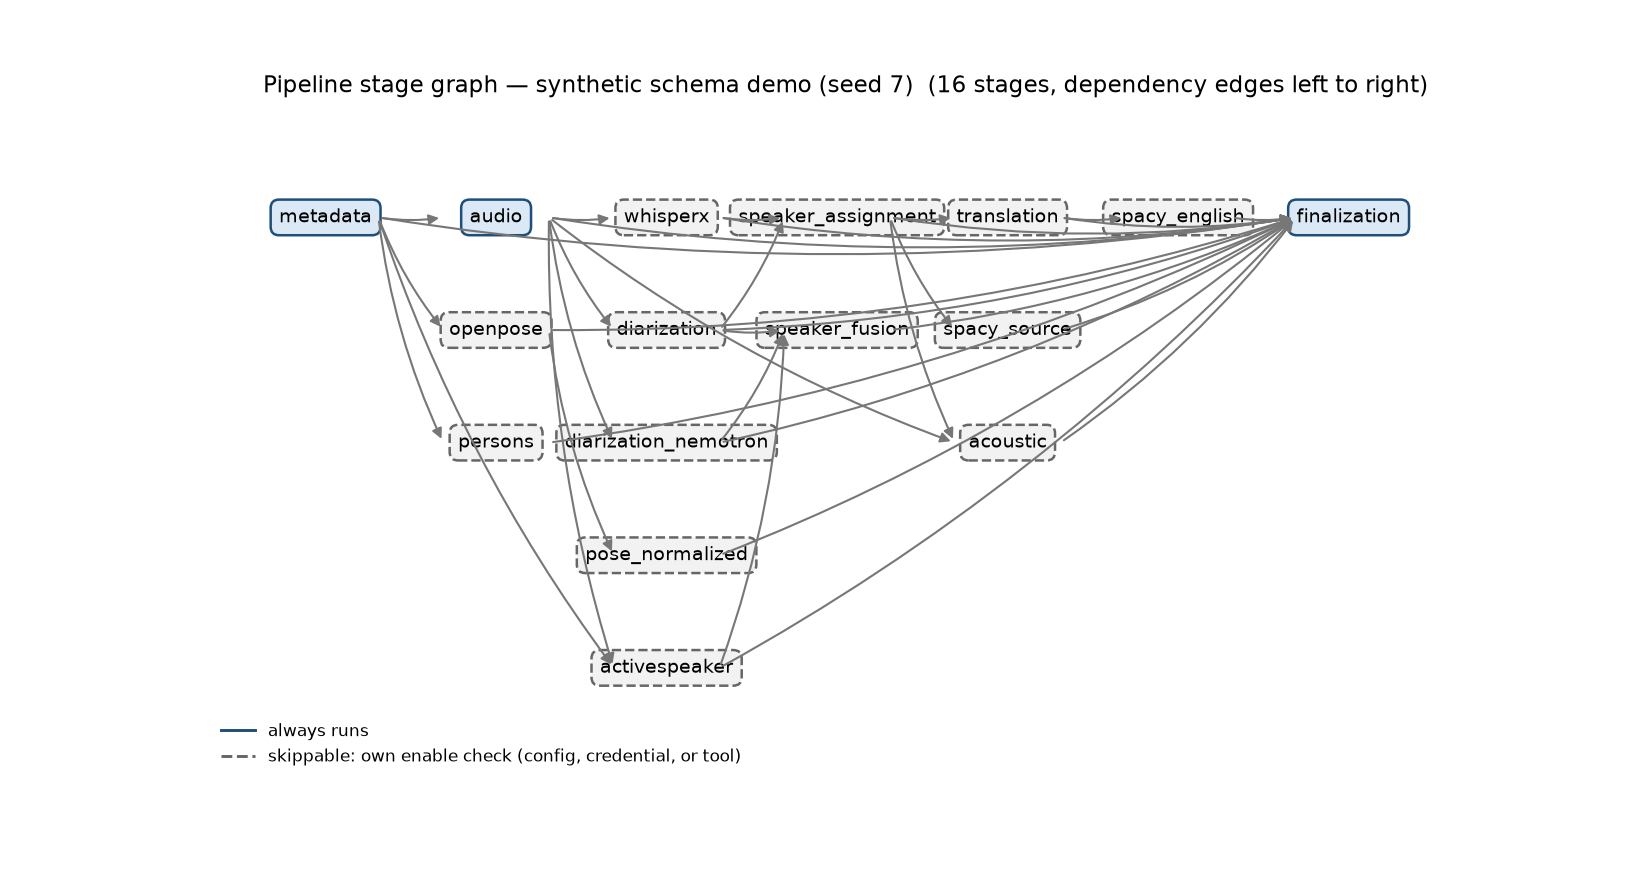
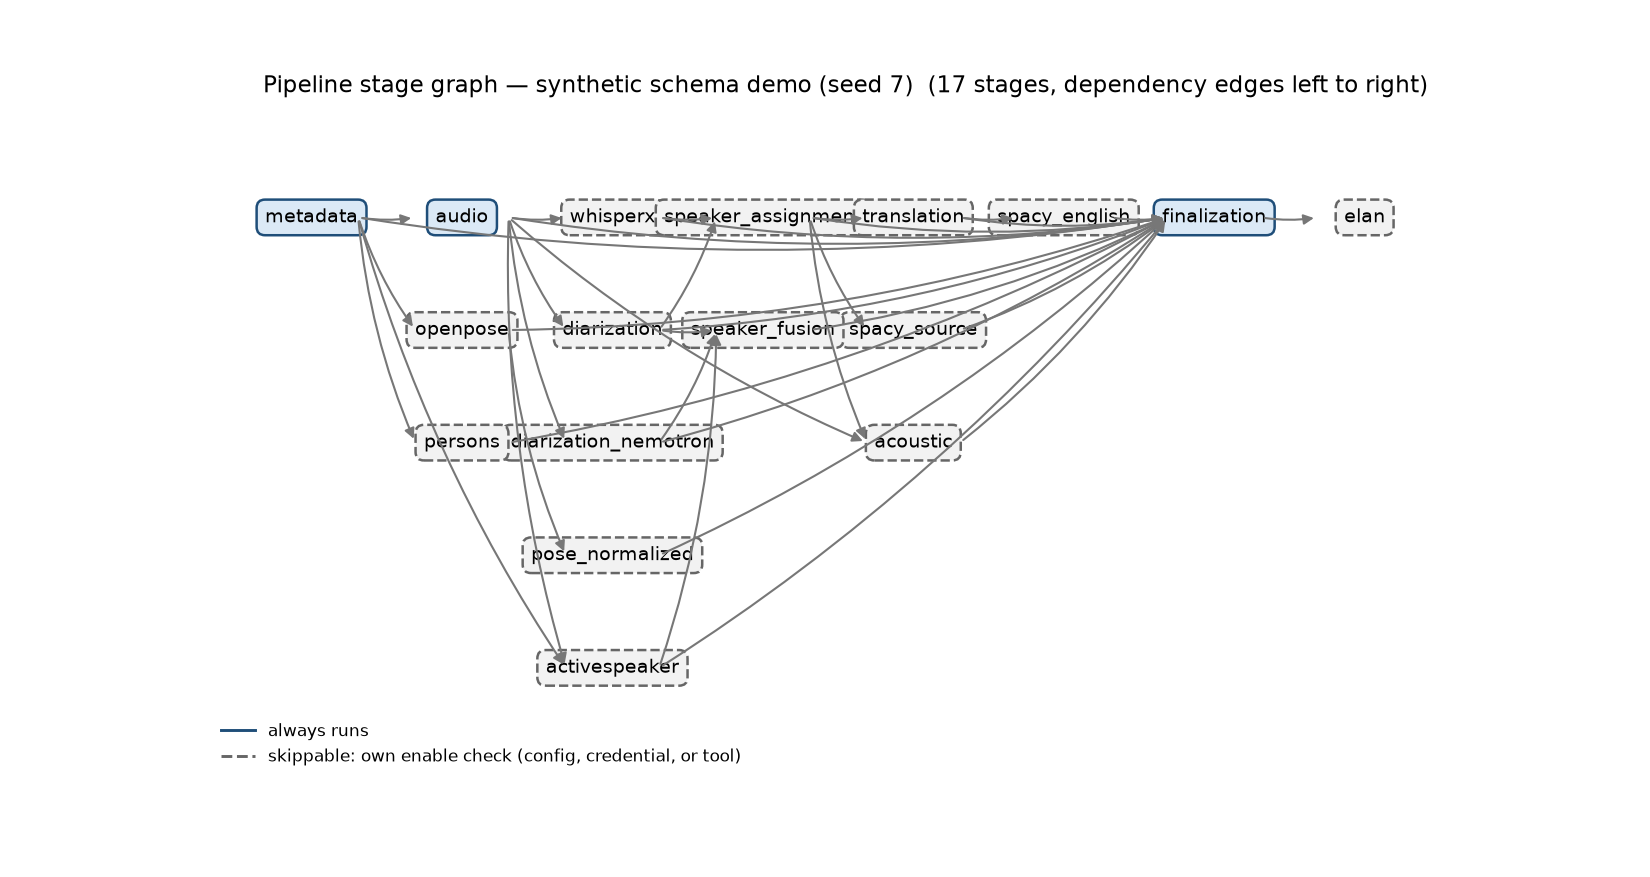
docs(elan): what the export is for, measured on all seven datasets (odd/tasks/elan-export.md)
T22 link 3/3: the consumer-facing section, the regenerated stage-graph figure,
and the ODD feature document (decisions, the writer's measured deviation, the
parent's closure measurements).

The section earns its place by naming what a reader cannot infer from the file:
the twelve tiers and where each comes from, the half-open reading a collapsed
block's end carries (start ≤ t < end + one median step — stated because it is a
choice), the two media URLs, the empty-MIME rule, and the failure rule (no words
and no segments fails the stage; anything else skips its tier with one logged
line). Annotation counts are measured per dataset, not illustrative: KABC 49,
CNN 36, La-1 86, person_demo 94, both pipeline demos 59, pipeline_silent 1.

The walked table's elan row carries measured per-tier counts for pipeline_demo
(words 23, asd_speaking 1 block of `no face`, pose_presence 0): the export
repeats the tables' emptiness rather than inventing a subject the clip lacks.

person_demo's transcript tiers are empty and the table says why — its words
table has 0 rows while whisperx completed — because an unexplained empty tier is
the ambiguity this feature set out to remove.

stage_graph.png regenerated with the documented command (--synthetic --seed 7):
the renderer draws from STAGE_ORDER and STAGE_CLASSES, so a new stage moves the
figure; the other three figures reproduced byte-identically, which is the check
that only the graph moved. Honest limit: this model cannot see images, so the
[…]

Changed region(s): [[0.1545, 0.2155, 0.8655, 0.7697], [0.6491, 0.4618, 0.68, 0.4926]]

diff --git a/odd/tasks/elan-export.md b/odd/tasks/elan-export.md
@@ -1,0 +1,206 @@
+# ELAN export (T22): one `.eaf` per video, one tier per module
+
+Operator request (2026-10-01): a new last pipeline stage that reads the outputs every
+worker already produced and writes one ELAN `.eaf` per video, with the modules' outputs
+as annotation rows, the video linked so ELAN shows it.
+
+Operator decisions (asked, answered):
+
+| Question | Answer |
+|---|---|
+| Where does it live | **Last stage of the pipeline**, reading the real outputs of every worker |
+| Annotation text | label + key details (`SPEAKER_00 (nemotron)`, `face track 0 · 74/77 act`) |
+| Per-frame signals (ASD, pose) | **collapse contiguous runs into blocks** |
+| Row layout | **flat, one tier per module** (no hierarchy, no per-speaker tiers) |
+
+Parent decisions (announced, reversible — alternatives noted):
+
+- Library: `pympi-ling` (`pympi.Elan.Eaf`), the standard Python EAF writer. Media through
+  `add_linked_file` with BOTH an absolute `file://` URL and a portable
+  `RELATIVE_MEDIA_URL` (`../../../input_videos/<name>`), so the `.eaf` opens the video in
+  place and survives a folder move.
+- Artifact name is fixed: `elan/annotations.eaf` inside each dataset dir (the registry
+  maps key→fixed path; one dataset dir per video, so one `.eaf` per video). Alternative
+  `<video_id>.eaf` rejected: `VideoPaths.artifact` cannot express per-video names.
+- Tier set (12, flat): `words`, `segments_src`, `gloss_en`, `turns_pyannote`,
+  `turns_nemotron`, `fusion_pyannote`, `fusion_nemotron`, `asd_speaking` (blocks),
+  `face_tracks`, `person_tracks`, `pose_presence` (blocks), `voiced_blocks`.
+- Times: seconds → integer milliseconds; a zero-width interval gets +1 ms (ELAN requires
+  start < end; documented in code).
+- Stage order: after `finalization`; `finalization`'s dependency tuple must exclude `elan`
+  (else the manifest's stage that declares `elan` can never declare it produced).
+- Reuse: derived pure-Python stage → mixes `python_source_digest` per §31.
+- `elan.enabled` defaults **true**: it is cheap pure Python over files already on disk,
+  and unlike `persons` it costs no GPU and no download. Reversible by config.
+- Adding a manifest artifact moves `MANIFEST_ARTIFACTS` 43→44 and the corpus 42→43 once
+  the stage has run everywhere; the README corpus prose and its guard get updated in the
+  same work unit (this is exactly the drift §40 just instrumented).
+
+## Tasks
+
+- [x] E1 `elan` module: tables → ELD structure (tiers, blocks collapse, ms conversion), unit-tested against real corpus tables
+- [x] E2 `ElanConfig` (enabled, default true) + wiring (`stage_configs`, example yaml) + artifact `elan_annotations` + `ensure_dirs`
+- [x] E3 `ElanStage` last in `STAGE_ORDER`; `finalization` deps exclude it; media descriptor with relpath + mimetype by suffix
+- [x] E4 run on the corpus, open/validate one `.eaf` (XML sanity + pympi round-trip), check ELAN media URL correctness
+- [x] E5 README section + corpus-count prose/guard updates + ratchet; suite green with named mutations
+- [ ] E6 ODD receipt + native review per commit + push
+
+## Implementation receipt (writer pass, 2026-09-30)
+
+E1–E3 are implemented and verified; E4 is verified read-only (the corpus was never written to);
+E5 and E6 are **not** started because every file they touch is outside this task's edit surface.
+
+### Deviation from the design spec (measured, not preferred)
+
+Tier 11 (`pose_presence`) was specified to group `pose/body.parquet` by **`source_timestamp`**.
+That column does not exist in that table. `BODY_SCHEMA` names its PTS-seconds column
+`timestamp`, and `OpenPoseStage.frame_timings` fills it from
+`source/frame_index.parquet`'s `pts_seconds` — so it *is* source presentation time, under the
+other name. `source_timestamp` exists only in `ACTIVE_SPEAKER_FRAMES_SCHEMA`, where it is needed
+alongside a second `timestamp` column holding TalkNet's synthetic 25 FPS axis.
+
+Grouped by `timestamp` instead. The design's actual point — group by seconds and never by
+`frame_number`, because the pose grid is the source's PTS list while ASD's `frame_number` is its
+resampled 25 FPS axis — is preserved, and stated in the docstring. Building the tier as written
+would have raised `ArrowInvalid: No match for FieldRef.Name(source_timestamp)` and skipped
+`pose_presence` on **every** video, silently, because per-tier read failures are logged and
+skipped by design. Caught by a corpus-backed assertion, not by reading.
+
+### Two findings the design did not anticipate (both cost a fix in code)
+
+1. **`pympi.Elan.to_eaf` renames an occupied destination to `<name>.bak` before writing.**
+   Handing it a path `NamedTemporaryFile` had already created left a zero-byte
+   `.annotations.eaf.*.bak` sibling in every dataset's `elan/` directory, which the artifact
+   registry would then have counted inside the `elan_annotations` slot. The writer now reserves
+   the temp name, releases it, and lets the library find the destination free. Found by
+   `test_no_temporary_file_is_left_behind`, which was written before the behaviour was known.
+2. **pympi emits a `default` `TIER` element in every document.** `validate`'s tier count and its
+   "declares no tier" guard both have to exclude it, or the count is one high and the guard is
+   unreachable (a document with no real tier still contains `default`).
+
+Also: `seconds_to_ms` rounds with `floor(x + 0.5)` rather than `round`, because Python's `round`
+is banker's rounding and an exact half-millisecond tie (0.0005 s) would fall to 0.
+
+### Pipeline logic that assumed `finalization` is last — and what it needs
+
+Two places in files outside this task's edit surface, both found by the suite rather than by
+reading, both still outstanding:
+
+1. `orchestrator.py` — `STAGE_CLASSES` is built from an explicit class tuple, so `elan` is
+   missing from it and `build_stages()` raises `KeyError: 'elan'`. **Every CLI command and all 21
+   e2e CLI tests die on it.** Needs: import `ElanStage` and add it to that tuple.
+2. `cli.py` — `run()` and `process_video()` default `--to-stage` to the literal `"finalization"`,
+   so `multimodal-pipeline run -c config/config.local.yaml` selects a stage range that **excludes
+   `elan`**: the feature would be dead on the pipeline's main entry point while every unit test
+   stayed green. Needs the default changed to `"elan"` (or `None`). The same file's `status`
+   command passes `to_stage=None` and is unaffected.
+
+`orchestrator.enabled_stage_names` also needs `"elan": config.elan.enabled`; without it a
+default-true stage is reported enabled by `status` while `Stage.enabled` will report a skip
+reason (the mapping's default is `True`, and `pose_normalized`/`speaker_fusion` are listed for
+exactly this reason).
+
+The DAG trap the design named was handled in surface: `finalization`'s dependency tuple now
+excludes both `finalization` and `elan`, and `dependency_chain`/`dependants_of` were checked for
+termination (`dependants_of("finalization") == ["elan"]`, `dependency_chain("elan")` is all 16
+predecessors in canonical order).
+
+### Mutation discipline (observed, then restored)
+
+- **(a) `+1 ms` zero-width end removed** → died: `test_a_zero_width_end_widens_by_one_millisecond`,
+  `test_a_null_timestamp_lands_at_zero`, and — with the pair-level repair in `interval_ms` also
+  removed — 24 more, including `test_a_known_word_lands_on_the_expected_millisecond_pair`,
+  `test_face_to_no_face_to_face_collapses_into_three_blocks`,
+  `test_presence_blocks_are_split_by_a_low_confidence_frame` and
+  `test_no_interval_ever_comes_out_negative_or_inverted`. The two-layer guard is why the isolated
+  mutation kills only the two unit-level tests: the pair check catches it downstream.
+- **(b) `RELATIVE_MEDIA_URL` dropped (absolute URL only)** → died:
+  `test_the_media_descriptor_carries_both_urls_and_they_both_resolve`,
+  `test_the_corpus_export_has_every_tier_and_real_words`,
+  `test_validate_reports_media_that_is_not_reachable` and 10 more that cannot write the file.
+
+Both restored; the suite is back to its pre-mutation state.
+
+### Out-of-surface failures this pass leaves for the parent (11)
+
+| Test | Why |
+|---|---|
+| `test_elan.py::TestOrchestratorRegistration` (2) | written as the specification for the `orchestrator.py` edits above |
+| `test_persons_config.py::...stage_is_in_the_order_and_the_class_map` | `set(STAGE_CLASSES) == set(STAGE_ORDER)` |
+| `test_pose_normalized_schema.py::...registered_in_the_orchestrator_classes` | same invariant |
+| `test_speaker_fusion.py::...stage_is_constructible_by_the_orchestrator` | `KeyError: 'elan'` |
+| `test_speaker_fusion.py::...registered_in_order_after_its_three_inputs` | asserts `STAGE_ORDER[-1] == "finalization"` — true on base, false by design now |
+| `test_readme_claims.py::...artifact_count_it_quotes_is_the_manifest_key_count` | pins `len(MANIFEST_ARTIFACTS) == 43`; registry is 44 |
+| `test_readme_claims.py::...corpus_counts_the_prose_states_match_the_manifests_on_disk` | README prose says the registry declares 43 |
+| `test_readme_claims.py::...example_never_walks_an_absent_artifact_as_a_file_that_exists` | asserts no dataset lists `elan_annotations`; the corpus has not run the stage yet |
+| `test_readme_claims.py::TestDocumentedTestCounts::...real_suite_sizes` | README ratchet: 98 new unit tests collected |
+
+`tests/e2e`: 21 failed / 20 passed against a **green baseline** (the same 42 pass on `HEAD` in a
+read-only worktree copy), all 21 from the `KeyError: 'elan'` above.
+
+## Parent closure (E4–E5, 2026-09-30)
+
+The parent verified the writer's work independently rather than trusting the report, then
+closed the gaps it named. Measurements, not restatements:
+
+**The out-of-surface gaps were real.** Every one of the 11 failing tests reproduced exactly as
+listed before any parent edit. Parent edits, all announced here because they are outside the
+delegation surfaces:
+
+- `orchestrator.py`: `ElanStage` imported and added to the `STAGE_CLASSES` tuple;
+  `enabled_stage_names` gained `"elan": config.elan.enabled`. The writer's reading of both
+  gaps was correct — with only those two edits, the 5 class-map/`KeyError` failures died.
+- `cli.py`: `--to-stage` default changed from the literal `"finalization"` to `None` on both
+  `run` and `process_video` (`None` = no upper bound, so the default *follows* `STAGE_ORDER`
+  instead of contradicting it; `resume` already passed `None`). Without this the feature is
+  dead on the main entry point — the "feature muerta" risk the writer flagged is exactly
+  right and this is the fourth time this repository has found a default that hard-codes a
+  stage name.
+- `tests/unit/test_speaker_fusion.py`: the `STAGE_ORDER[-1] == "finalization"` pin became
+  `STAGE_ORDER[-2:] == ("finalization", "elan")` plus an inequality — a positional pin on
+  "the last stage" was always a claim about the length of a list that grows.
+- `tests/unit/test_readme_claims.py`: registry pin 43→44 (the constant moving with the
+  registry *is* the guard), prose anchors re-pointed at the new sentences.
+
+**E4, measured on the corpus (operator-authorized writes to `data/processed/`).** All seven
+`elan/annotations.eaf` written; every one parses as XML, round-trips through pympi, exports
+**12/12 tiers**, and both media URLs resolve from disk (absolute `file://` and
+`../../input_videos/<name>`). `validate --json`: `ok: true`, 7/7, zero problems, all
+manifests declare 43 artifacts. A third consecutive `--only-stage elan` run re-used (0–1 s)
+and `status --plan` reports `valid previous result` for all seven — the 0 s of run two was
+the `elan.py` source edit between runs invalidating by design (§31), and the fingerprint
+claim was then *tested*: appending one comment line to `elan.py` moved all seven to
+`configuration changed`, removing it moved them back. The figure `docs/assets/stage_graph.png`
+was regenerated (`--synthetic --seed 7`, byte-identical reproduction verified for the other
+three figures). Honest limit: the current model cannot see images, so the new PNG was
+verified by the renderer's data path (`stage list len: 17` with `elan` proven in the same
+process) and by its bytes changing — not by looking at it.
+
+**One real defect the writer shipped, found by the parent reading corpus output.**
+`mimetype_for` mapped every unknown suffix to `video/mp4`. The corpus's `person_demo.avi` is
+the test case: its real container (ffprobe, and the pipeline's own `source/metadata.json`)
+is QuickTime — `video/mp4` in that descriptor would be a false statement inside every
+artifact. The fix declares nothing when the suffix does not say (`UNKNOWN_MIME_TYPE = ""`):
+`MIME_TYPE` is an optional `MEDIA_DESCRIPTOR` attribute, an empty one serialises and
+round-trips (measured with pympi 1.7), and ELAN plays off the extension either way.
+Correct-but-absent beats wrong-and-present. The rewritten test died under restoring the old
+catch-all. (Process note: the first mutation attempt silently no-op'd because bare `python`
+does not exist on this machine — a `python` invocation is not a command here; `uv run python`
+re-ran it properly.)
+
+**E5.** New README section “ELAN export: `elan`” (tier table, measured annotation counts for
+all seven datasets, the two-URL rule, the empty-MIME rule, the transcript-fails rule); the
+file-by-file table gained its `elan/annotations.eaf` row with measured per-tier counts; the
+verbatim block was **regenerated by executing the README snippet** (guard
+`test_the_verbatim_snippet_output_is_actually_verbatim` passes against it); prose moved to
+17 stages / 43 artifacts / 44 registry keys; the `status` example and its `fifteen`/`15=…`
+legend were found stale against the real 17-column render (they already lagged at fourteen
+before this feature — corrected to the measured output); counts ratcheted to 1551/42. The
+committed stage-graph PNG regenerated. Mutation deaths named and observed (each restored
+after, in-memory — a `git checkout` would have discarded the uncommitted feature):
+prose 43→44 died, stages 17→16 died, verbatim 43→44 died, ratchet 1551→1550 died.
+
+**Suite after all of it:** unit `1543 passed, 8 skipped` (collected 1551), e2e `42 passed`
+(run with the stage registered but before the README-only edits; the docs commits touch no
+code path e2e exercises), pyflakes clean, `validate` ok.
+

diff --git a/README.md b/README.md
@@ -9,7 +9,8 @@ speaker-assigned transcript, an English translation through a LiteLLM
 OpenAI-compatible endpoint, spaCy linguistic features (source language and
 English), Praat/Parselmouth acoustic features and OpenPose BODY_25 + hands + face
 keypoints — all normalised to Parquet on a single video timeline, with raw tool
-artifacts, logs, status, provenance and a manifest.
+artifacts, logs, status, provenance, a manifest, and an ELAN `.eaf` annotation file
+per video that opens the clip with every module's output on its own tier.
 
 Every modality lands on the same clock (`seconds_from_video_start`), so a query
 like *"show me everything between 12.4 s and 15.1 s in video X"* is a filter, not
@@ -274,6 +275,8 @@ data/processed/<video_id>/
 │   ├── fusion_pyannote.parquet         ← pyannote turns × per-frame active speaker (see below)
 │   ├── fusion_nemotron.parquet         ← same fusion, Nemotron turns, if that engine is selected
 │   └── raw/{active_speaker.json,tracks.pckl,scores.pckl,scenes.csv}
+├── elan/
+│   └── annotations.eaf             ← ELAN export: one tier per module, video linked (see below)
 ├── logs/                         ← pipeline.log + one log per stage
 └── provenance/
     ├── config.json               ← resolved config, secrets masked, config hash
@@ -412,6 +415,7 @@ Now the files, with what those numbers mean:
 | `speaker/fusion_{pyannote,nemotron}.parquet` | 2 / 1 | One row per diarization turn per engine: the turn's times plus what the face evidence said about it, as a verdict in `agreement` and the arithmetic behind it in `agreement_detail`. On this clip both engines answer `no_face_visible` — "a voice with nothing visible" — which is the correct reading of a test pattern, not a failure to decide. |
 | `speaker/active_speaker_frames.parquet` | 249 | Dense on the 25 FPS grid, and on this clip the grid *is* the source grid. Every row is `face_status='no_face'`, `frame_reason='no_face'`, `score_imputed=False`, `is_active_speaker=False`, `track_id=None`. |
 | `speaker/active_speaker_tracks.parquet` | 0 | No track, because no face was ever located. |
+| `elan/annotations.eaf` | 12 tiers / 59 annotations | The ELAN export of everything above: one flat tier per module, the video linked by both an absolute and a relative URL, per-frame signals collapsed into blocks. It is XML, so the count is annotations and tiers rather than rows. Measured here: `words` 23, `asd_speaking` 1 block reading `no face`, `pose_presence` and `person_tracks` 0 — the export repeats the tables' own emptiness, it does not invent a subject the clip does not have. |
 | `provenance/{config,tools,processing}.json` | — | Resolved config with secrets masked, the machine inventory, and every stage's exact command, hashes and duration. |
 
 One row read straight out of `speech/words.parquet`, which is the row every other modality
@@ -957,6 +961,72 @@ passes `persist=False` unconditionally, and counts GMC failures into
 
 ---
 
+## ELAN export: `elan`
+
+The last stage writes one `elan/annotations.eaf` per dataset: an ELAN annotation file that
+links the source video and puts every module's output on its own flat tier, so the corpus is
+readable in the tool linguists already use instead of only through Parquet. It is a
+*derived export*, not a new measurement — it reads the tables the other stages wrote and
+changes no number anywhere — which is why it costs seconds, why it runs after
+`finalization`, and why it is **on by default** while `persons` and `diarization_nemotron`
+are off: it needs no GPU, no download, no credential.
+
+Twelve tiers, one per module, no hierarchy:
+
+| Tier | From | Annotation text |
+|---|---|---|
+| `words` | `speech/words.parquet` | the word |
+| `segments_src` | `speech/segments.parquet` | `SPEAKER_00: source text` |
+| `gloss_en` | `translation/segments_en.parquet` | the English gloss |
+| `turns_pyannote` / `turns_nemotron` | each engine's turn table | `SPEAKER_00 (pyannote, exclusive)` |
+| `fusion_pyannote` / `fusion_nemotron` | `speaker/fusion_*.parquet` | the verdict plus its arithmetic, verbatim |
+| `asd_speaking` | `speaker/active_speaker_frames.parquet` | `speaking track 0` / `not speaking` / `no face`, **collapsed into blocks** |
+| `face_tracks` | `speaker/active_speaker_tracks.parquet` | `track 0 · 75/78 act · mean 2.505` |
+| `person_tracks` | `persons/tracks.parquet` | `person 1 · 126 fr · conf 0.928` |
+| `pose_presence` | `pose/body.parquet` | `body present` blocks (any keypoint ≥ 0.3) |
+| `voiced_blocks` | `acoustic/frame_features.parquet` | `voiced (f0)` runs |
+
+Per-frame signals collapse into contiguous runs because 249 one-frame annotations per tier
+would be unusable in ELAN and true to nothing: the collapse is per label-run, and the block
+ends one median grid-step past the last frame that carried the label — stated because it is
+a choice, and a block's end is therefore a half-open reading (`start ≤ t < end + step`).
+
+Measured on the corpus, annotations per dataset (all seven export all twelve tiers):
+
+| dataset | tiers | annotations | note |
+|---|---|---|---|
+| KABC | 12 | 49 | `asd_speaking` = 3 blocks; `pose_presence` = 1 (0→4204 ms) |
+| CNN | 12 | 36 | |
+| La-1 | 12 | 86 | 7 ASD blocks, 8 person tracks |
+| `person_demo` | 12 | 94 | transcript tiers are **empty**: its words table has 0 rows |
+| `pipeline_demo` | 12 | 59 | |
+| `pipeline_demo_ntsc` | 12 | 59 | |
+| `pipeline_silent` | 12 | 1 | the silence case: one block, no transcript |
+
+Three things the export does that are worth knowing before you open one:
+
+- **The video is linked twice.** The `MEDIA_DESCRIPTOR` carries both an absolute `file://`
+  URL and a `RELATIVE_MEDIA_URL` (`../../input_videos/<name>`), because neither alone
+  works: without the absolute one ELAN can't find the media on a normal open; without the
+  relative one, copying `data/processed/` to another disk breaks every link although the
+  video is still beside it. Measured on all seven datasets: both URLs resolve from disk.
+- **An unknown container gets an empty `MIME_TYPE`, never a guess.** `.mp4`/`.mov`/`.m4v`
+  map to their real types; anything else declares nothing, because the attribute is
+  optional, ELAN plays off the extension anyway, and a wrong type is a lie in the file.
+  The rule is measured, not defensive: this corpus's `person_demo.avi` is really a
+  QuickTime container, so a catch-all `video/mp4` would have been false on disk.
+- **A missing table skips its tier with a logged reason; a missing transcript fails.** No
+  words *and* no segments is a dataset nobody asked to annotate, so the stage fails loudly
+  there; anything else (translation off, ASD off) just exports fewer tiers.
+
+Reuse works like every derived stage: its fingerprint mixes the digests of the tables it
+reads **and** the Python that builds the tiers (§31), so editing `elan.py` re-runs it and an
+untouched dataset re-uses in 0 s (`status --plan`: `valid previous result`). Times go
+seconds → integer milliseconds (ELAN's unit), a zero-width interval widens by 1 ms because
+pympi refuses a zero-length annotation, and no interval is ever negative.
+
+---
+
 ## Stage graph
 
 ```
@@ -976,6 +1046,8 @@ metadata
   metadata, audio, whisperx, diarization, speaker_assignment, translation,
   spacy_source, spacy_english, acoustic, openpose, activespeaker, speaker_fusion
                                                                         ──►  finalization
+                                                                                  │
+  the finished dataset's tables (it reads them, it runs no model)     ──►  elan
 ```
 
 `openpose` depends only on `metadata`, so a transcription failure never stops pose
